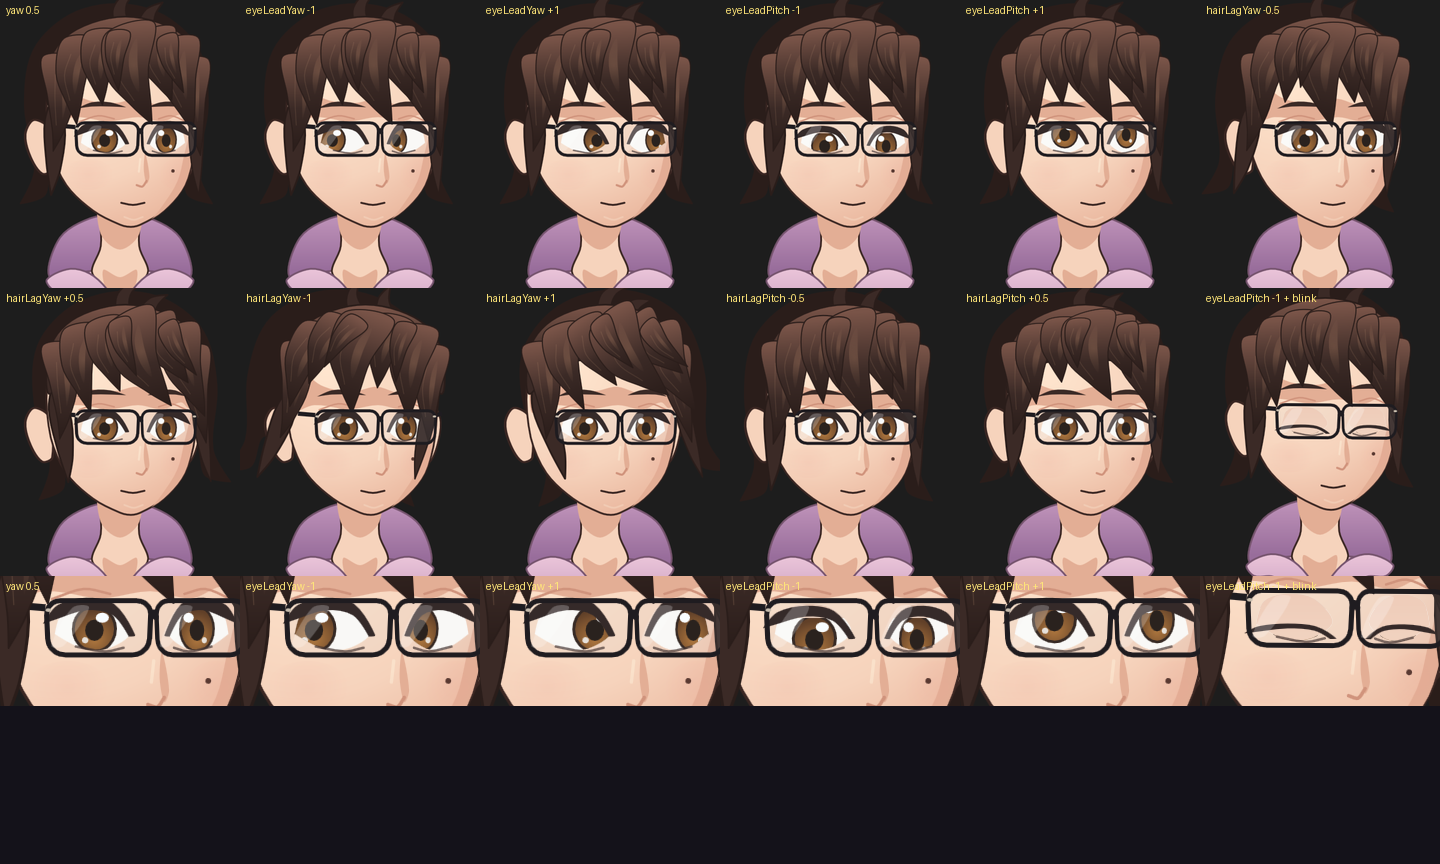
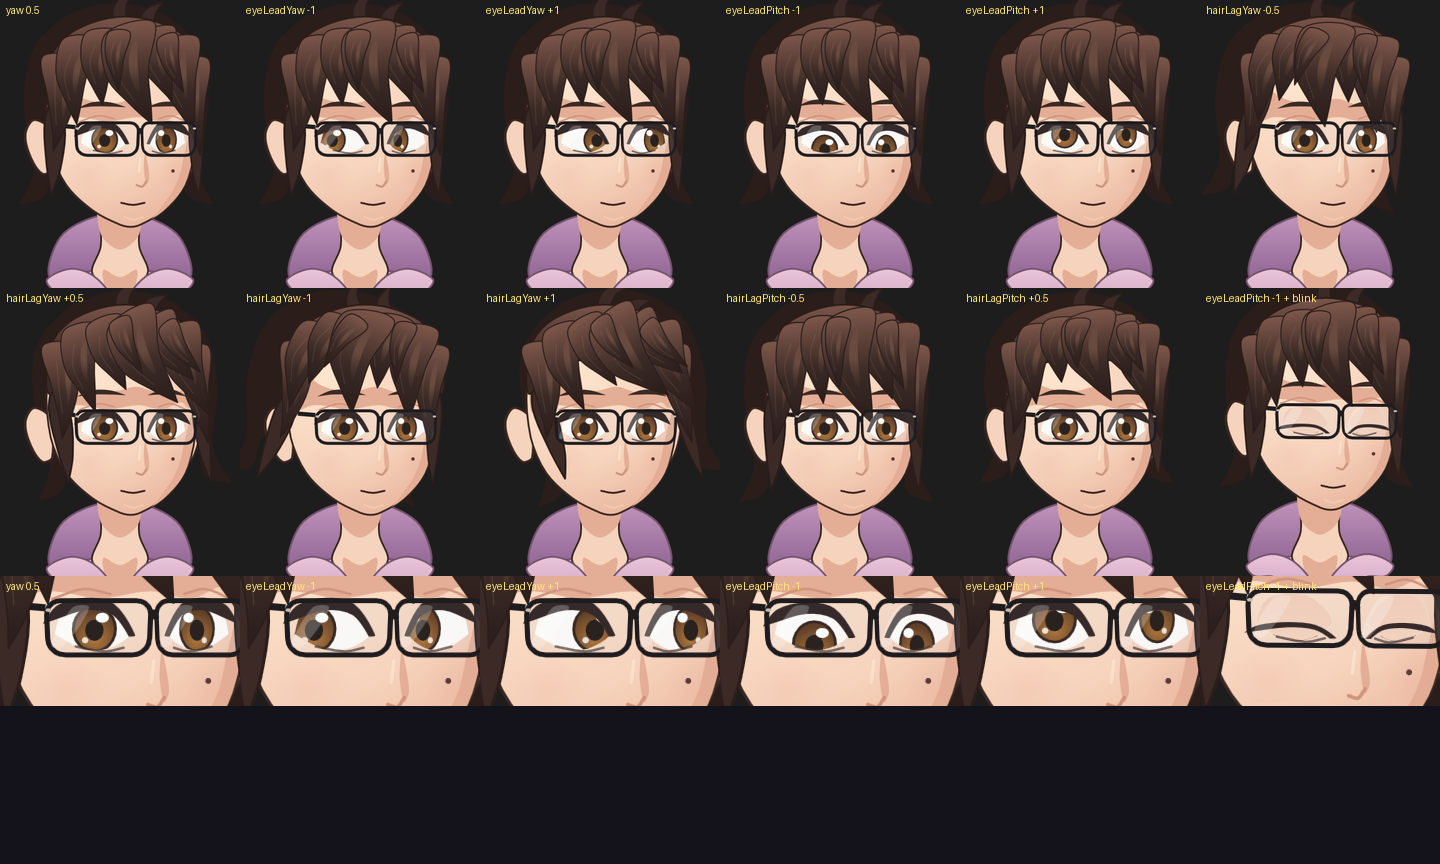
test(rive): final head-rig tuning evidence
final.png: eyeLeadPitch -1 open and blinking, the hair-lag peak
(yaw +-0.8, hairLagYaw -+0.46), the far-iris pose (yaw +-0.7,
eyeLeadYaw -+0.52), hairLagYaw +-0.4 and the +-1 extremes, with an
eye zoom row; lag.png and metrics.txt regenerated.

diff --git a/rive/tools/review_avatar_turn.py b/rive/tools/review_avatar_turn.py
@@ -161,6 +161,32 @@ def lag() -> None:
     sheet(cells, 6, "lag.png")
 
 
+FINAL_POSES: list[tuple[str, dict[str, str], int]] = [
+    ("eyeLeadPitch -1", {"eyeLeadPitch": "-1"}, 1),
+    ("eyeLeadPitch -1 blink", {"eyeLeadPitch": "-1"}, 172),
+    ("yaw .8 hairLagYaw -.46", {"yaw": "0.8", "hairLagYaw": "-0.46"}, 1),
+    ("yaw -.8 hairLagYaw +.46", {"yaw": "-0.8", "hairLagYaw": "0.46"}, 1),
+    ("yaw .7 eyeLeadYaw -.52", {"yaw": "0.7", "eyeLeadYaw": "-0.52"}, 1),
+    ("yaw -.7 eyeLeadYaw +.52", {"yaw": "-0.7", "eyeLeadYaw": "0.52"}, 1),
+    ("yaw .5 hairLagYaw -.4", {"yaw": "0.5", "hairLagYaw": "-0.4"}, 1),
+    ("yaw .5 hairLagYaw +.4", {"yaw": "0.5", "hairLagYaw": "0.4"}, 1),
+    ("yaw 1 hairLagYaw -1", {"yaw": "1", "hairLagYaw": "-1"}, 1),
+    ("yaw -1 hairLagYaw +1", {"yaw": "-1", "hairLagYaw": "1"}, 1),
+]
+
+
+def final() -> None:
+    """The final-round critic poses: whole head, then the eyes zoomed."""
+    heads = render_cells(FINAL_POSES, HEAD_BOX, (240, 288), "final")
+    eyes = render_cells(FINAL_POSES, (260, 320, 540, 460), (240, 120), "final_eyes")
+    out = Image.new("RGB", (240 * 5, 288 * 2 + 120 * 2), (20, 18, 26))
+    for k, c in enumerate(heads):
+        out.paste(c, ((k % 5) * 240, (k // 5) * 288))
+    for k, c in enumerate(eyes):
+        out.paste(c, ((k % 5) * 240, 576 + (k // 5) * 120))
+    out.save(OUT / "final.png", optimize=True)
+
+
 def lead_travel() -> list[str]:
     """Measured iris / pupil travel (centroid of the dark pupil pixels in the right eye)."""
     def centroid(data: dict[str, str]) -> tuple[float, float]:
@@ -260,7 +286,8 @@ def metrics() -> None:
 
 
 def main(argv: list[str]) -> None:
-    order = ("grid", "moods", "corners", "zoom", "glasses", "mouth_matrix", "lag", "identity", "turn", "app_turn", "metrics")
+    order = ("grid", "moods", "corners", "zoom", "glasses", "mouth_matrix", "lag", "final", "identity", "turn", "app_turn",
+             "metrics")
     parts = set(argv) or set(order)
     OUT.mkdir(parents=True, exist_ok=True)
     subprocess.run(["rive", str(PROJ), "--once"], cwd=PROJ, check=True, capture_output=True)
